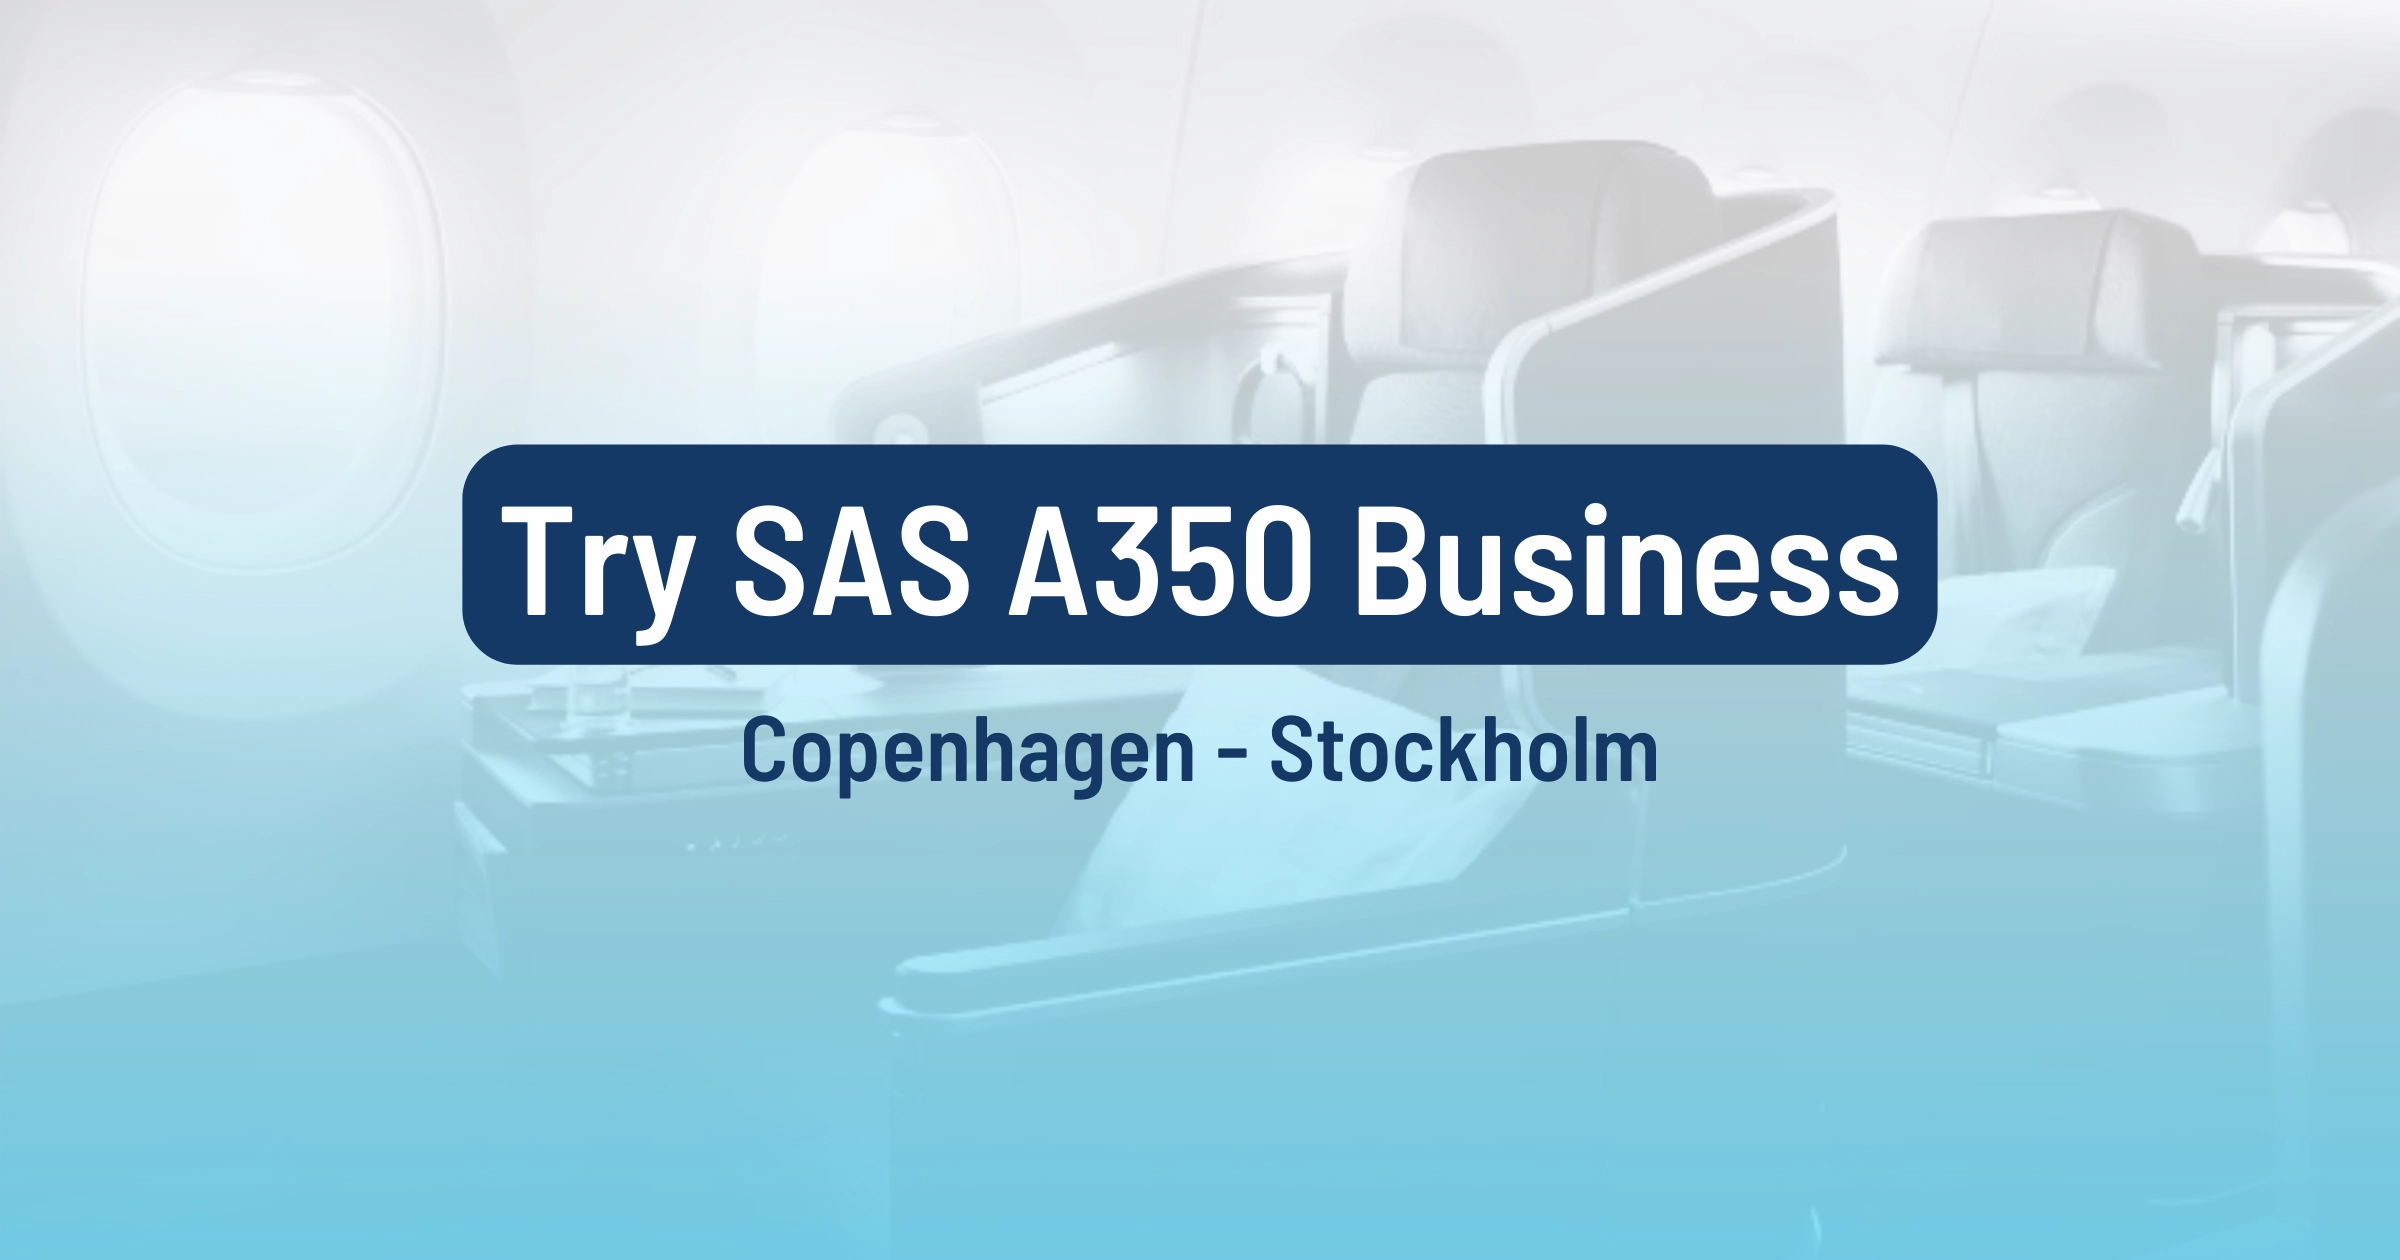
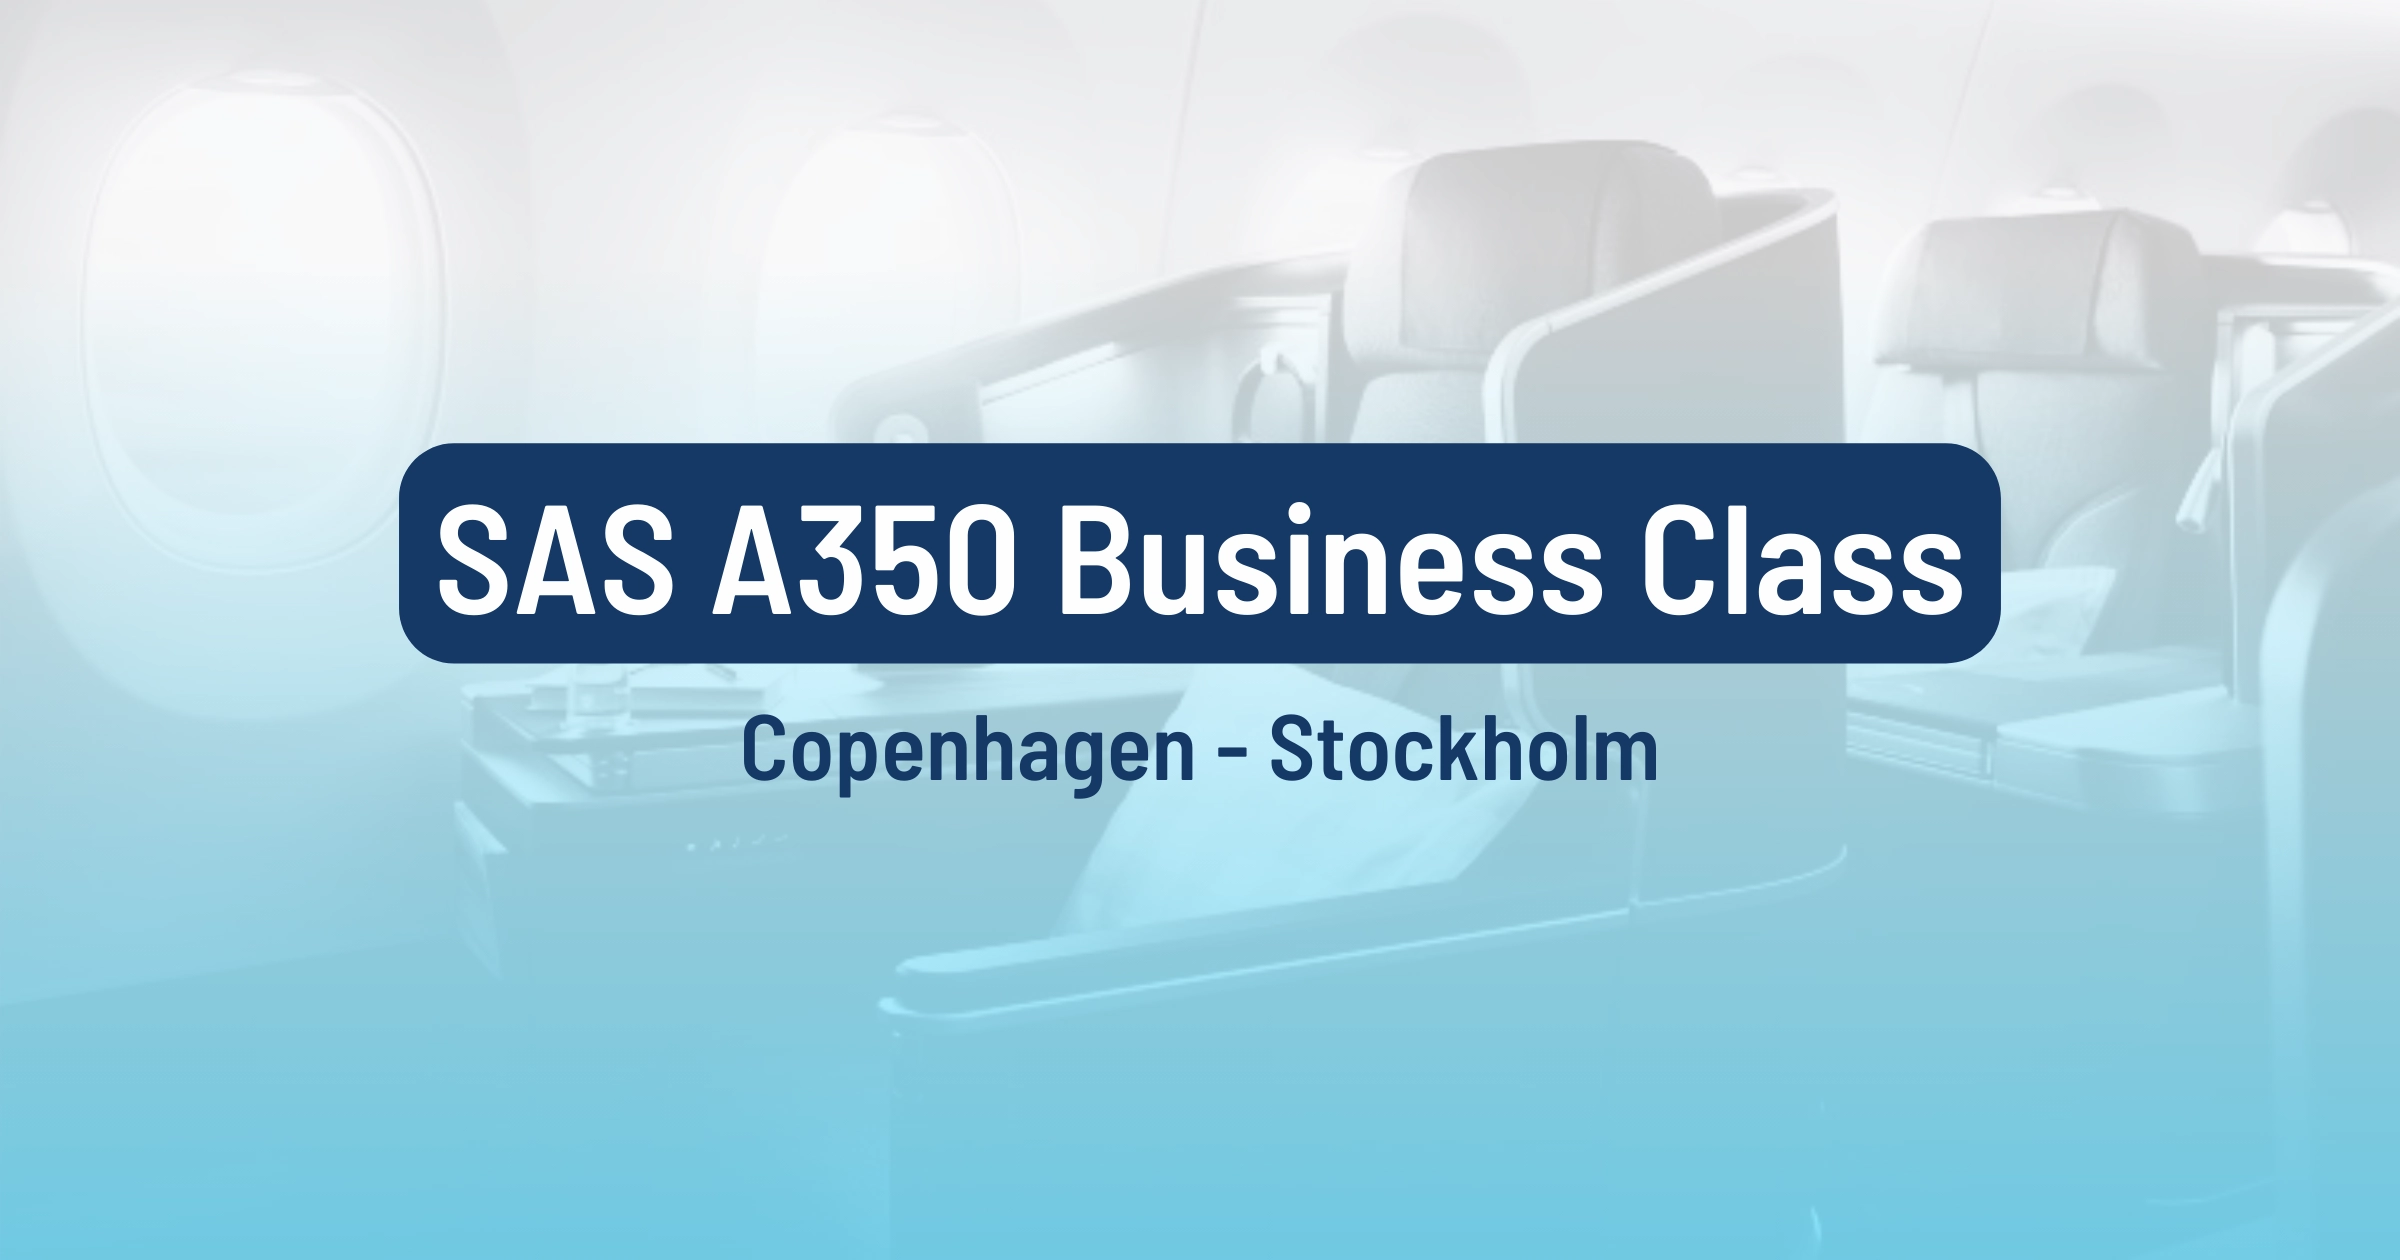
Updates

Changed region(s): [[0.1562, 0.3405, 0.8438, 0.5262]]

diff --git a/_posts/2023-12-20-sas-a350-arn-cph.md b/_posts/2023-12-20-sas-a350-arn-cph.md
@@ -1,6 +1,6 @@
 ---
 layout: post
-title: "Try SAS A350 Business Class Between Copenhagen and Stockholm (Before February 2024)"
+title: "Fly on SAS A350's Business Class Between Copenhagen and Stockholm (Before February 2024)"
 category: [News]
 tags: [SAS, SAS EuroBonus]
 author: Germán
